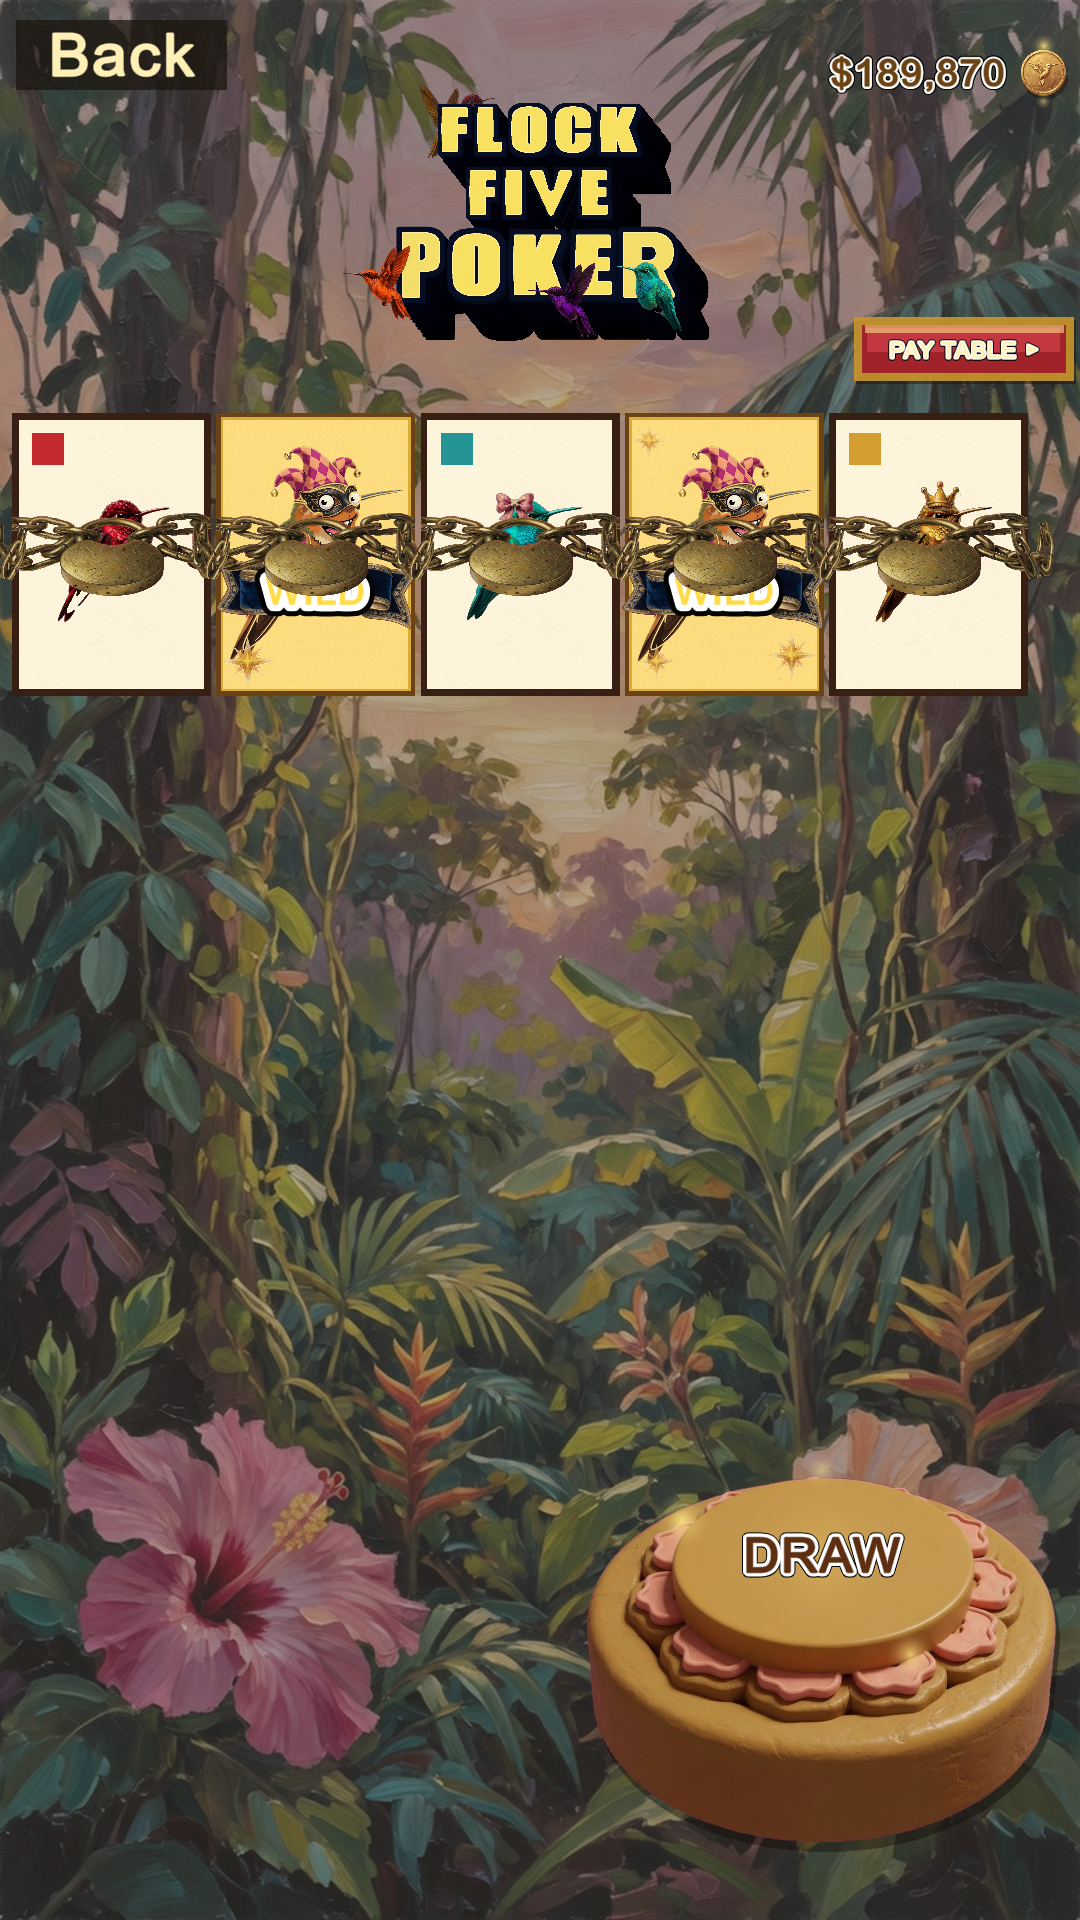
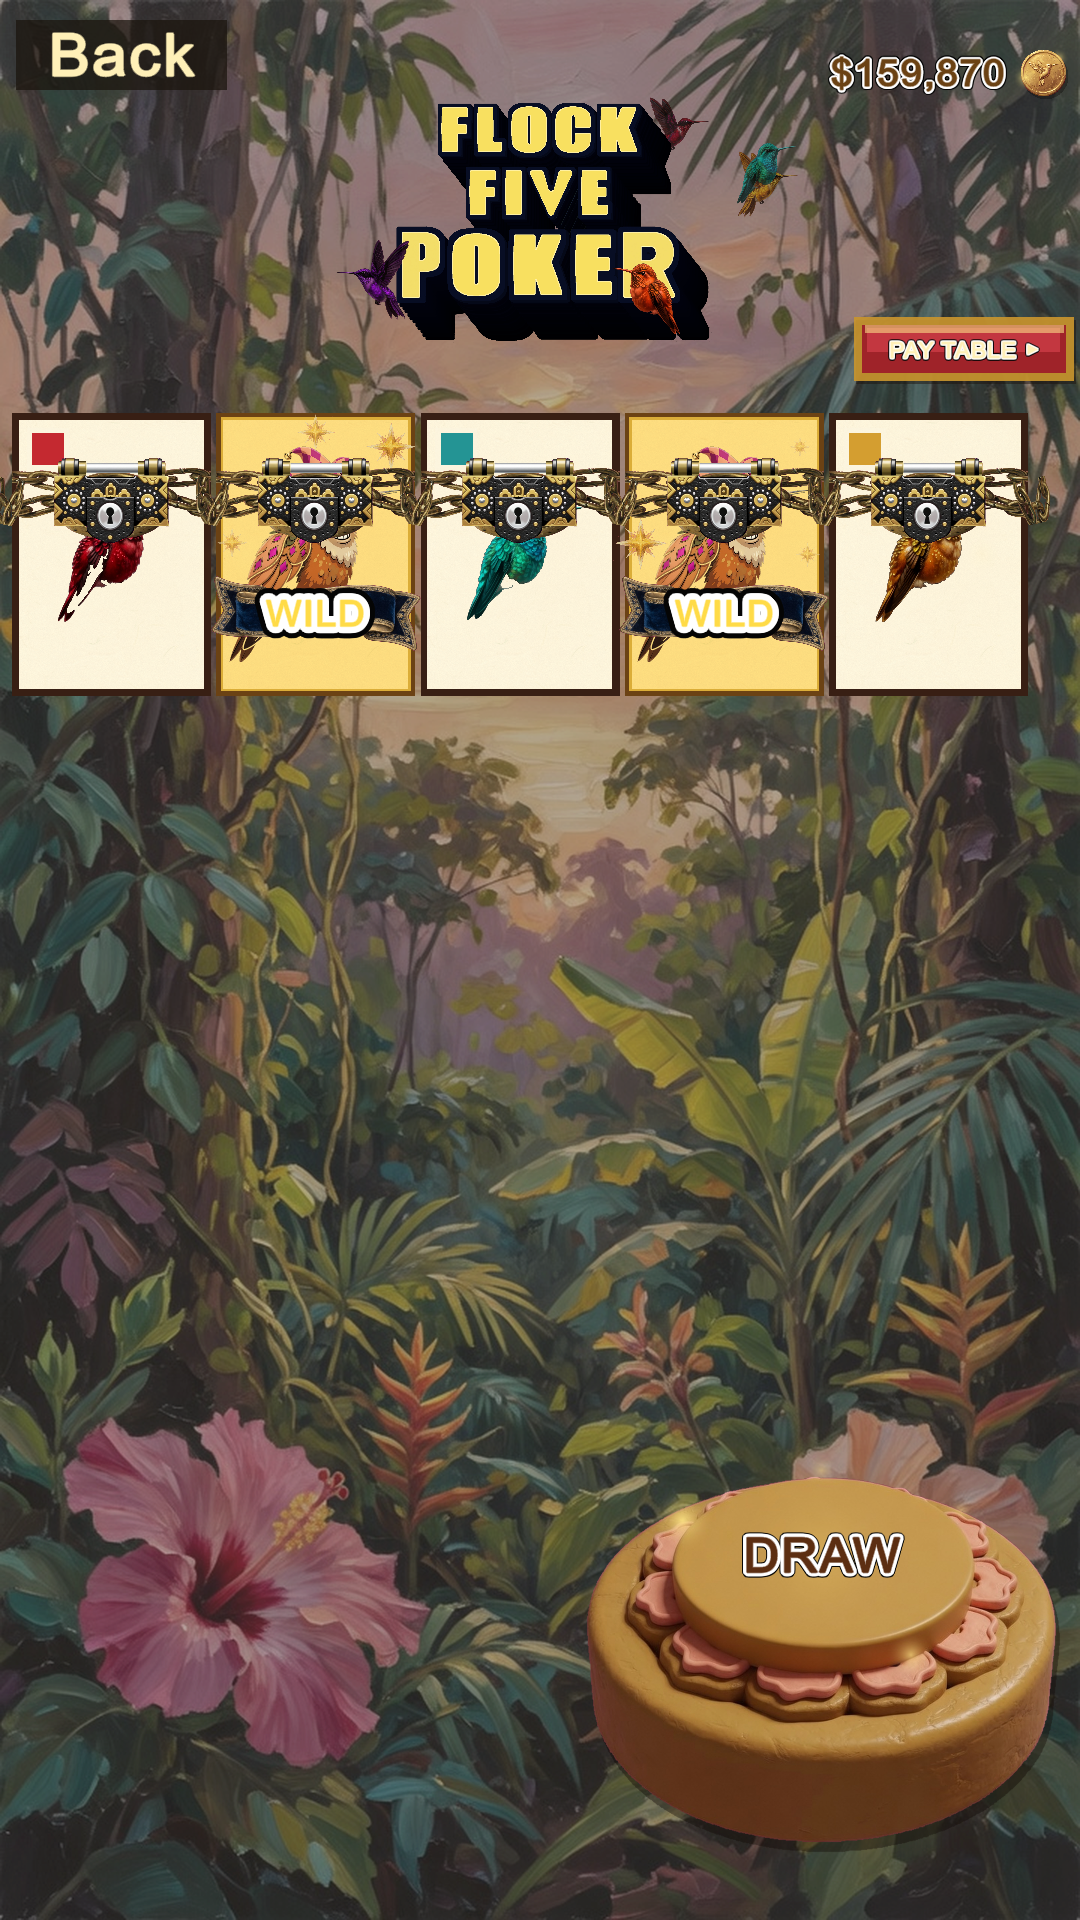
Poker: opaque hand pass 3 — solid flesh, no fringe; wild ribbon wider/lower
Palm/sleeve fill on the fan back; front fingertips keep painted holes (no
scanline mitten) and recolor near-white edges. Wild banner 2.08 / 0.72.
Ornate keyhole padlock sits on the upper face so WILD stays readable.
Fan seats shrink as a group. Unhold 0→1 restores the hand; hold-all hides it.

diff --git a/Assets/_Project/Scripts/App/SpriteCatalog.cs b/Assets/_Project/Scripts/App/SpriteCatalog.cs
@@ -4,7 +4,7 @@ namespace FlockFive
 {
     public static class SpriteCatalog
     {
-        static Sprite _bg, _branch, _branchGift, _leaf, _vine, _petalPink, _petalPeach, _firefly, _glow, _rain, _smoke, _blanket, _zee, _sparkle, _moon, _logo, _bee, _beeFlap, _feather, _bow, _bowtie, _crown, _hive, _playFlower, _adSign, _adBulb, _adCard, _iceA, _iceB, _iceShard, _restart, _piggy, _coin, _poker, _cardBack, _cardPaper, _handFan, _handFanFront, _handPluck, _wildBanner, _dash, _chain, _stampRing, _stampTool, _joker, _clipboard, _sparrow, _sparrowFlap1, _sparrowFlap2, _hawk;
+        static Sprite _bg, _branch, _branchGift, _leaf, _vine, _petalPink, _petalPeach, _firefly, _glow, _rain, _smoke, _blanket, _zee, _sparkle, _moon, _logo, _bee, _beeFlap, _feather, _bow, _bowtie, _crown, _hive, _playFlower, _adSign, _adBulb, _adCard, _iceA, _iceB, _iceShard, _restart, _piggy, _coin, _poker, _cardBack, _cardPaper, _handFan, _handFanFront, _handPluck, _wildBanner, _dash, _chain, _padlock, _stampRing, _stampTool, _joker, _clipboard, _sparrow, _sparrowFlap1, _sparrowFlap2, _hawk;
         static Sprite[] _flames;
         static bool _sparrowPlaceholder;
         static bool _hawkPlaceholder;
@@ -106,6 +106,8 @@ namespace FlockFive
             _handPluck = null;
             _stampTool = null;
             _wildBanner = null;
+            _padlock = null;
+            _chain = null;
         }
         public static Sprite CardPaper
         {
@@ -119,8 +121,8 @@ namespace FlockFive
         {
             get
             {
-                if (!HandSolid(_handFan, "HandFanSolid2"))
-                    _handFan = NameHand(HardenHand(TryLoad("Sprites/fx_hand_fan", 200f), true), "HandFanSolid2");
+                if (!HandSolid(_handFan, "HandFanSolid5"))
+                    _handFan = NameHand(HardenHand(TryLoad("Sprites/fx_hand_fan", 200f), true), "HandFanSolid5");
                 return _handFan;
             }
         }
@@ -128,8 +130,8 @@ namespace FlockFive
         {
             get
             {
-                if (!HandSolid(_handFanFront, "HandFanFrontSolid2"))
-                    _handFanFront = NameHand(HardenHand(TryLoad("Sprites/fx_hand_fan_front", 200f), true), "HandFanFrontSolid2");
+                if (!HandSolid(_handFanFront, "HandFanFrontSolid5"))
+                    _handFanFront = NameHand(HardenHand(TryLoad("Sprites/fx_hand_fan_front", 200f), true), "HandFanFrontSolid5");
                 return _handFanFront;
             }
         }
@@ -137,8 +139,8 @@ namespace FlockFive
         {
             get
             {
-                if (!HandSolid(_handPluck, "HandPluckSolid2"))
-                    _handPluck = NameHand(HardenHand(TryLoad("Sprites/fx_hand_pluck", 200f), true), "HandPluckSolid2");
+                if (!HandSolid(_handPluck, "HandPluckSolid5"))
+                    _handPluck = NameHand(HardenHand(TryLoad("Sprites/fx_hand_pluck", 200f), true), "HandPluckSolid5");
                 return _handPluck;
             }
         }
@@ -173,6 +175,14 @@ namespace FlockFive
             {
                 if (_chain == null) _chain = TryLoad("Sprites/fx_chain", 200f);
                 return _chain;
+            }
+        }
+        public static Sprite Padlock
+        {
+            get
+            {
+                if (_padlock == null) _padlock = TryLoad("Sprites/fx_padlock", 200f);
+                return _padlock;
             }
         }
         public static Sprite Flame(int i)
@@ -498,9 +508,8 @@ namespace FlockFive
             return Fallback(ppu);
         }
 
-        // Hard-clip alpha and fill the silhouette so jungle cannot read
-        // through palm or finger flesh. 1px atlas lines are opened off
-        // the mask first so scanline fill cannot bridge canvas specks.
+        // Solid silhouette: keep faint sleeve paint, drop white finger-edge
+        // fringe, close holes in palm/forearm, then force alpha = 1.
         static Sprite HardenHand(Sprite src, bool fillHoles)
         {
             if (src == null || src.texture == null) return src;
@@ -514,7 +523,7 @@ namespace FlockFive
             var mask = new byte[n];
             for (int i = 0; i < n; i++)
             {
-                if (pix[i].a < 0.5f)
+                if (pix[i].a < 0.12f)
                 {
                     pix[i] = new Color(0f, 0f, 0f, 0f);
                     mask[i] = 0;
@@ -530,9 +539,19 @@ namespace FlockFive
             if (fillHoles)
             {
                 DropSmall(mask, w, h, 400);
-                MorphOpen(mask, w, h, 2);
+                MorphOpen(mask, w, h, 1);
                 DropSmall(mask, w, h, 400);
-                ScanlineFill(mask, pix, w, h);
+                int ones = 0;
+                for (int i = 0; i < n; i++)
+                    if (mask[i] != 0) ones++;
+                if (ones > 80000)
+                {
+                    MorphClose(mask, w, h, 3);
+                    ScanlineFill(mask, pix, w, h);
+                }
+                else
+                    FillClosedHoles(mask, pix, w, h);
+                RecolorWhiteEdge(mask, pix, w, h);
                 for (int i = 0; i < n; i++)
                 {
                     if (mask[i] == 0) pix[i] = new Color(0f, 0f, 0f, 0f);
@@ -545,7 +564,7 @@ namespace FlockFive
                 }
             }
             var tex = new Texture2D(w, h, TextureFormat.RGBA32, false);
-            tex.filterMode = FilterMode.Point;
+            tex.filterMode = FilterMode.Bilinear;
             tex.wrapMode = TextureWrapMode.Clamp;
             tex.SetPixels(pix);
             tex.Apply(false, false);
@@ -605,6 +624,75 @@ namespace FlockFive
             var tmp = new byte[n];
             MorphMin(mask, tmp, w, h, r);
             MorphMax(tmp, mask, w, h, r);
+        }
+
+        static void MorphClose(byte[] mask, int w, int h, int r)
+        {
+            int n = w * h;
+            var tmp = new byte[n];
+            MorphMax(mask, tmp, w, h, r);
+            MorphMin(tmp, mask, w, h, r);
+        }
+
+        static bool WhiteFringe(Color p)
+        {
+            return p.r > 0.86f && p.g > 0.86f && p.b > 0.86f;
+        }
+
+        static void FillClosedHoles(byte[] mask, Color[] pix, int w, int h)
+        {
+            int n = w * h;
+            var outside = new bool[n];
+            var q = new int[n];
+            int qh = 0, qt = 0;
+            void Enq(int i)
+            {
+                if ((uint)i >= (uint)n || outside[i] || mask[i] != 0) return;
+                outside[i] = true;
+                q[qt++] = i;
+            }
+            for (int x = 0; x < w; x++) { Enq(x); Enq((h - 1) * w + x); }
+            for (int y = 0; y < h; y++) { Enq(y * w); Enq(y * w + w - 1); }
+            while (qh < qt)
+            {
+                int i = q[qh++];
+                int x = i % w;
+                if (x > 0) Enq(i - 1);
+                if (x + 1 < w) Enq(i + 1);
+                if (i >= w) Enq(i - w);
+                if (i + w < n) Enq(i + w);
+            }
+            var skin = new Color(0.78f, 0.56f, 0.44f, 1f);
+            for (int i = 0; i < n; i++)
+            {
+                if (outside[i] || mask[i] != 0) continue;
+                Color fill = skin;
+                int x = i % w;
+                if (x > 0 && mask[i - 1] != 0) fill = pix[i - 1];
+                fill.a = 1f;
+                pix[i] = fill;
+                mask[i] = 1;
+            }
+        }
+
+        static void RecolorWhiteEdge(byte[] mask, Color[] pix, int w, int h)
+        {
+            var skin = new Color(0.78f, 0.56f, 0.44f, 1f);
+            for (int y = 0; y < h; y++)
+            {
+                int row = y * w;
+                for (int x = 0; x < w; x++)
+                {
+                    int i = row + x;
+                    if (mask[i] == 0 || !WhiteFringe(pix[i])) continue;
+                    Color fill = skin;
+                    if (x > 0 && mask[i - 1] != 0 && !WhiteFringe(pix[i - 1])) fill = pix[i - 1];
+                    else if (y > 0 && mask[i - w] != 0 && !WhiteFringe(pix[i - w])) fill = pix[i - w];
+                    else if (x + 1 < w && mask[i + 1] != 0 && !WhiteFringe(pix[i + 1])) fill = pix[i + 1];
+                    fill.a = 1f;
+                    pix[i] = fill;
+                }
+            }
         }
 
         static void MorphMin(byte[] src, byte[] dst, int w, int h, int r)

diff --git a/Assets/_Project/Scripts/App/FlockFiveApp.cs b/Assets/_Project/Scripts/App/FlockFiveApp.cs
@@ -1052,11 +1052,18 @@ namespace FlockFive
             ApplyPokerHold(2);
             yield return new WaitForSecondsRealtime(0.45f);
             yield return SnapShot(dir + "/poker-fan-hold.png");
+            yield return SnapShot(dir + "/poker-hold-two.png");
             ApplyPokerHold(1);
+            yield return new WaitForSecondsRealtime(0.40f);
+            yield return SnapShot(dir + "/poker-hold-three.png");
             ApplyPokerHold(3);
             ApplyPokerHold(4);
             yield return new WaitForSecondsRealtime(0.50f);
             yield return SnapShot(dir + "/poker-hold-all.png");
+            ApplyPokerHold(4);
+            yield return new WaitForSecondsRealtime(0.45f);
+            yield return SnapShot(dir + "/poker-unhold-one.png");
+            ApplyPokerHold(4);
             ApplyPokerHold(1);
             ApplyPokerHold(3);
             ApplyPokerHold(4);
@@ -5161,20 +5168,19 @@ namespace FlockFive
             float cardH = row.height * PokerFanScale;
             float cardW = cardH / 1.42f;
             float span = row.width * PokerFanSpan * Mathf.Lerp(0.36f, 1f, (fanCount - 1) / 4f);
-            float x = row.center.x - span * 0.5f + span * t - cardW * 0.5f;
+            // Shrink the whole fan uniformly if it would clip — never shove ends independently.
+            float leftPad = Screen.width * 0.07f;
+            float rightPad = Screen.width * 0.07f;
+            float maxSpan = Screen.width - leftPad - rightPad - cardW;
+            if (maxSpan < 8f) maxSpan = 8f;
+            if (span > maxSpan) span = maxSpan;
+            float x0 = (Screen.width - (span + cardW)) * 0.5f;
+            if (x0 < leftPad) x0 = leftPad;
+            float x = x0 + span * t;
             float mid = 1f - Mathf.Abs(t * 2f - 1f);
-            // Sit in the hand, well below the hold row so keeps never cover the fan.
             float y = row.y + row.height * 2.12f - mid * 12f + bump;
-            float life = Mathf.Sin(Time.unscaledTime * 1.55f + fanIndex * 1.27f) * 3.4f;
-            float sway = Mathf.Sin(Time.unscaledTime * 0.82f + fanIndex * 0.91f) * 2.0f;
-            x += sway;
-            // Extra pad so a rolled corner stays inside 9:16.
-            float leftPad = Screen.width * 0.16f;
-            float rightPad = Screen.width * 0.13f;
-            if (fanIndex == 0) leftPad += cardW * 0.30f;
-            if (fanIndex == fanCount - 1) rightPad += cardW * 0.20f;
-            if (x < leftPad) x = leftPad;
-            if (x + cardW > Screen.width - rightPad) x = Screen.width - rightPad - cardW;
+            float life = Mathf.Sin(Time.unscaledTime * 1.55f + fanIndex * 1.27f) * 2.4f;
+            x += Mathf.Sin(Time.unscaledTime * 0.82f + fanIndex * 0.91f) * 0.8f;
             return new Rect(x, y + life, cardW, cardH);
         }
 
@@ -5493,8 +5499,8 @@ namespace FlockFive
             if (!_pokerChained && _pokerChainBreak < 0f) return;
             var spr = SpriteCatalog.Chain;
             var tex = spr != null ? spr.texture : null;
-            float h = Mathf.Clamp(wrap.height * 0.30f, 30f * s, 56f * s);
-            float midY = wrap.y + wrap.height * 0.50f;
+            float h = Mathf.Clamp(wrap.height * 0.26f, 26f * s, 48f * s);
+            float midY = wrap.y + wrap.height * 0.32f;
             // End loops live behind the card; lock + inner links sit on the face.
             var back = new Rect(wrap.center.x - wrap.width * 0.68f, midY - h * 0.40f, wrap.width * 1.36f, h * 0.80f);
             var front = new Rect(wrap.x, midY - h * 0.50f, wrap.width, h);
@@ -5584,6 +5590,19 @@ namespace FlockFive
             GUIUtility.RotateAroundPivot(78f, new Vector2(card.xMax, front.center.y));
             GUI.DrawTextureWithTexCoords(right, tex, new Rect(0.82f, 0f, 0.16f, 1f));
             GUI.matrix = prev;
+            DrawPadlock(card, front.height);
+        }
+
+        static void DrawPadlock(Rect card, float chainH)
+        {
+            var spr = SpriteCatalog.Padlock;
+            if (spr == null || spr.texture == null) return;
+            float lockH = Mathf.Clamp(card.height * 0.30f, chainH * 1.15f, card.height * 0.36f);
+            float lockW = lockH * 1.38f;
+            // Sit on the upper face so the wild ribbon (~0.72) stays clear.
+            float y = card.y + card.height * 0.16f;
+            var lr = new Rect(card.center.x - lockW * 0.5f, y, lockW, lockH);
+            DrawSprite(lr, spr, true);
         }
 
         static void DrawChainShard(Texture tex, Rect chain, float u0, float uW, float dirX, float dirY, float spin, float drop, float fly, float s)
@@ -6020,8 +6039,8 @@ namespace FlockFive
             float breathe = 0.5f + 0.5f * Mathf.Sin(Time.unscaledTime * 1.15f + phase);
             float sprawl = sheen ? 1.02f + 0.06f * breathe : 1f;
             var prev = GUI.matrix;
-            float bandW = inner.width * 1.82f;
-            float bandY = inner.y + inner.height * 0.64f - bandH * 0.5f;
+            float bandW = inner.width * 2.08f;
+            float bandY = inner.y + inner.height * 0.72f - bandH * 0.5f;
             var band = new Rect(inner.center.x - bandW * 0.5f, bandY, bandW, bandH);
             GUIUtility.ScaleAroundPivot(new Vector2(sprawl, 1f), band.center);
             var spr = SpriteCatalog.WildBanner;

diff --git a/Assets/_Project/Scripts/Editor/PokerPlayRun.cs b/Assets/_Project/Scripts/Editor/PokerPlayRun.cs
@@ -150,6 +150,30 @@ namespace FlockFive.Editor
                 return false;
             }
             Line("all-five-held fan live=0");
+            BirdPoker.ToggleHold(4);
+            if (LiveFan() != 1 || BirdPoker.Hold[4])
+            {
+                Line("FAIL unhold 0->1 live=" + LiveFan());
+                return false;
+            }
+            Line("unhold 0->1 live=1");
+            BirdPoker.ToggleHold(3);
+            BirdPoker.ToggleHold(2);
+            if (LiveFan() != 3)
+            {
+                Line("FAIL unhold two more live=" + LiveFan());
+                return false;
+            }
+            Line("unhold reverse re-pack live=3");
+            BirdPoker.ToggleHold(2);
+            BirdPoker.ToggleHold(3);
+            BirdPoker.ToggleHold(4);
+            if (LiveFan() != 0)
+            {
+                Line("FAIL re-hold to five live=" + LiveFan());
+                return false;
+            }
+            Line("re-hold to five live=0");
             for (int i = 0; i < BirdPoker.HandSize; i++)
                 BirdPoker.ToggleHold(i);
             if (LiveFan() != BirdPoker.HandSize)
